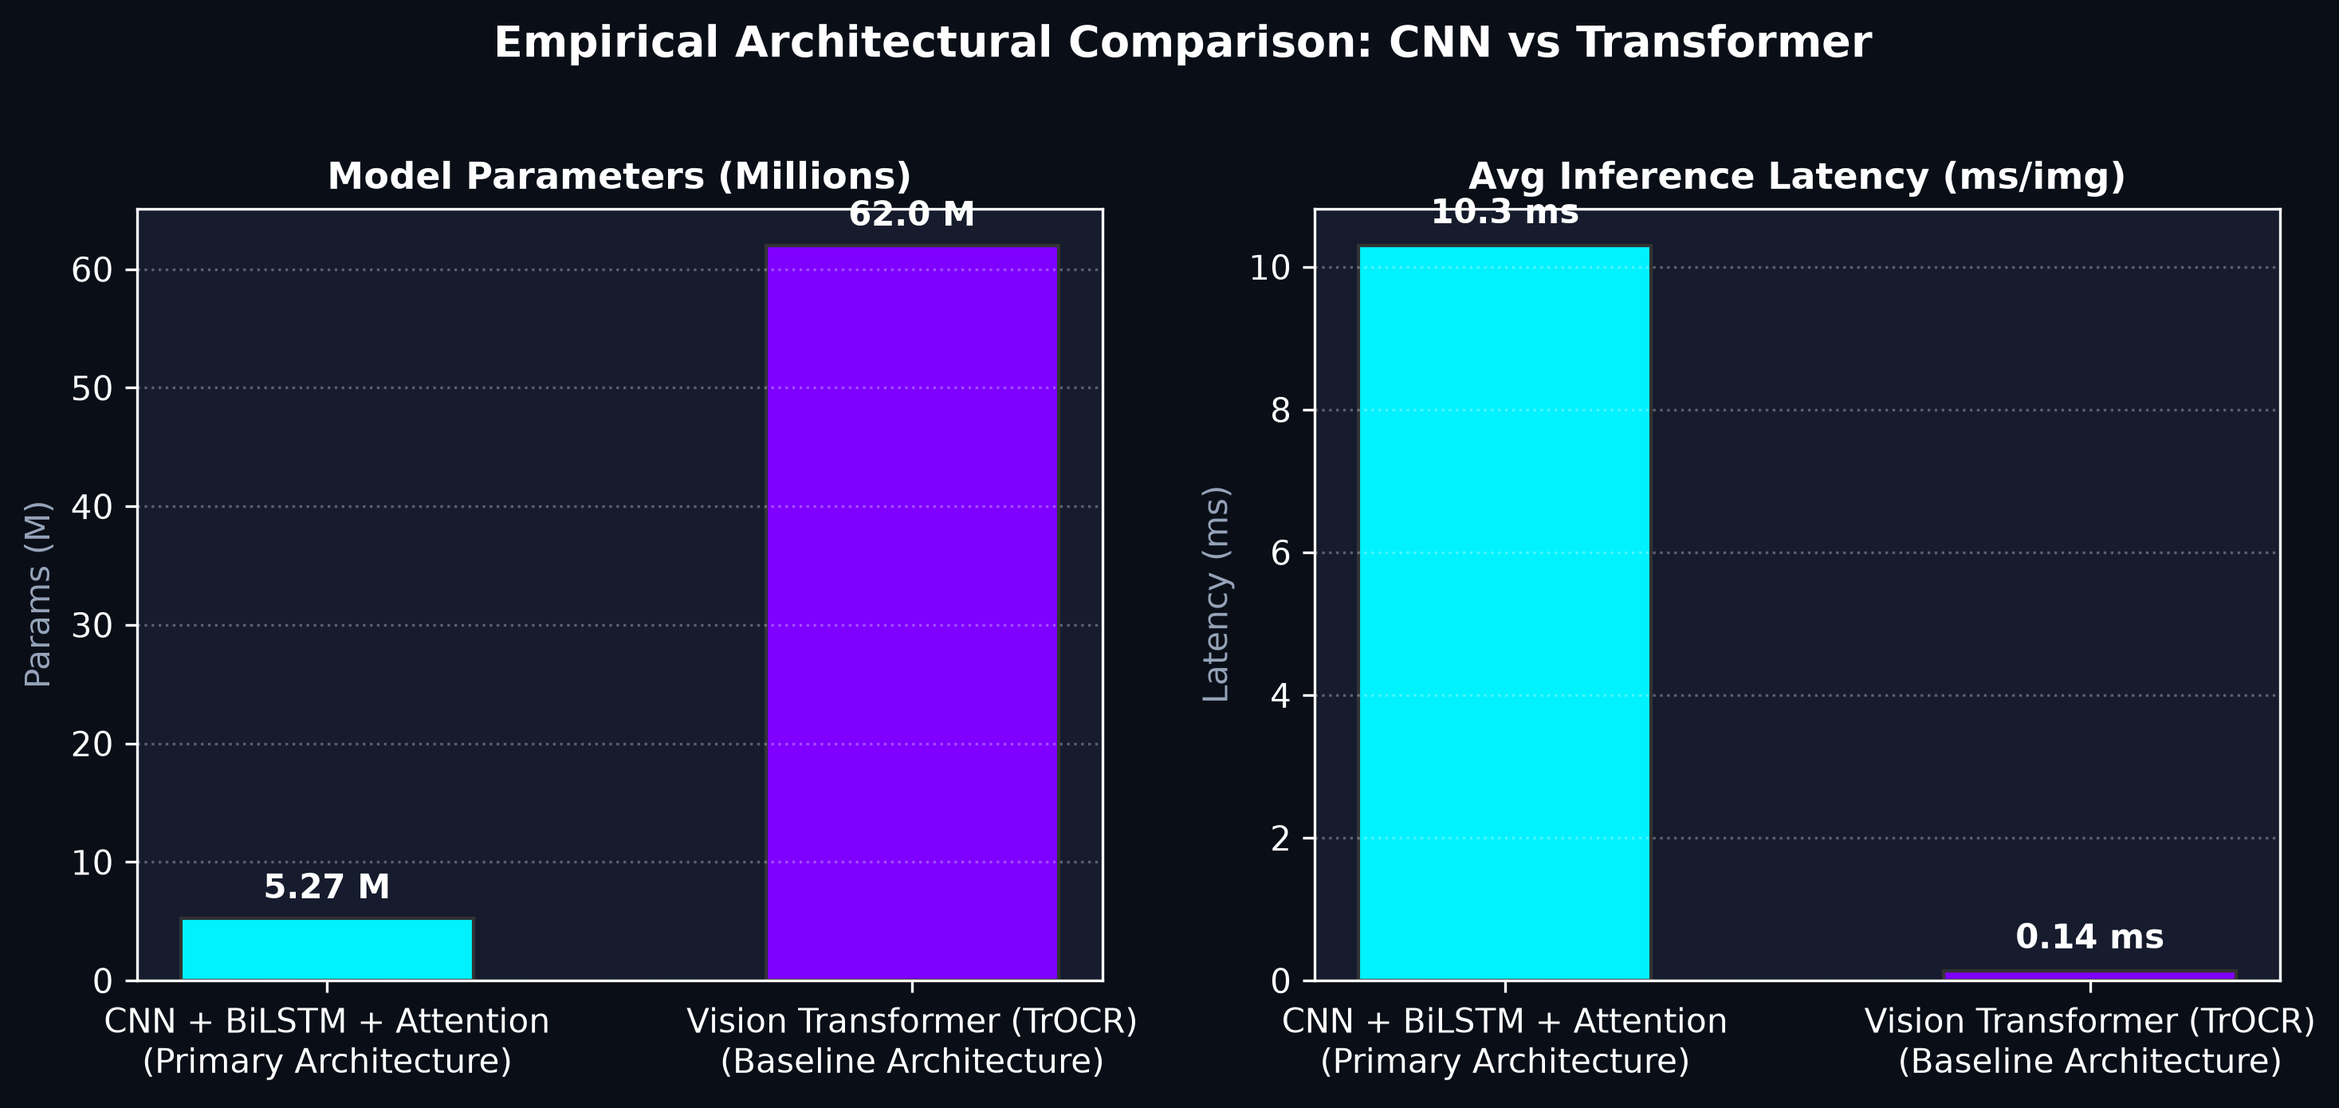
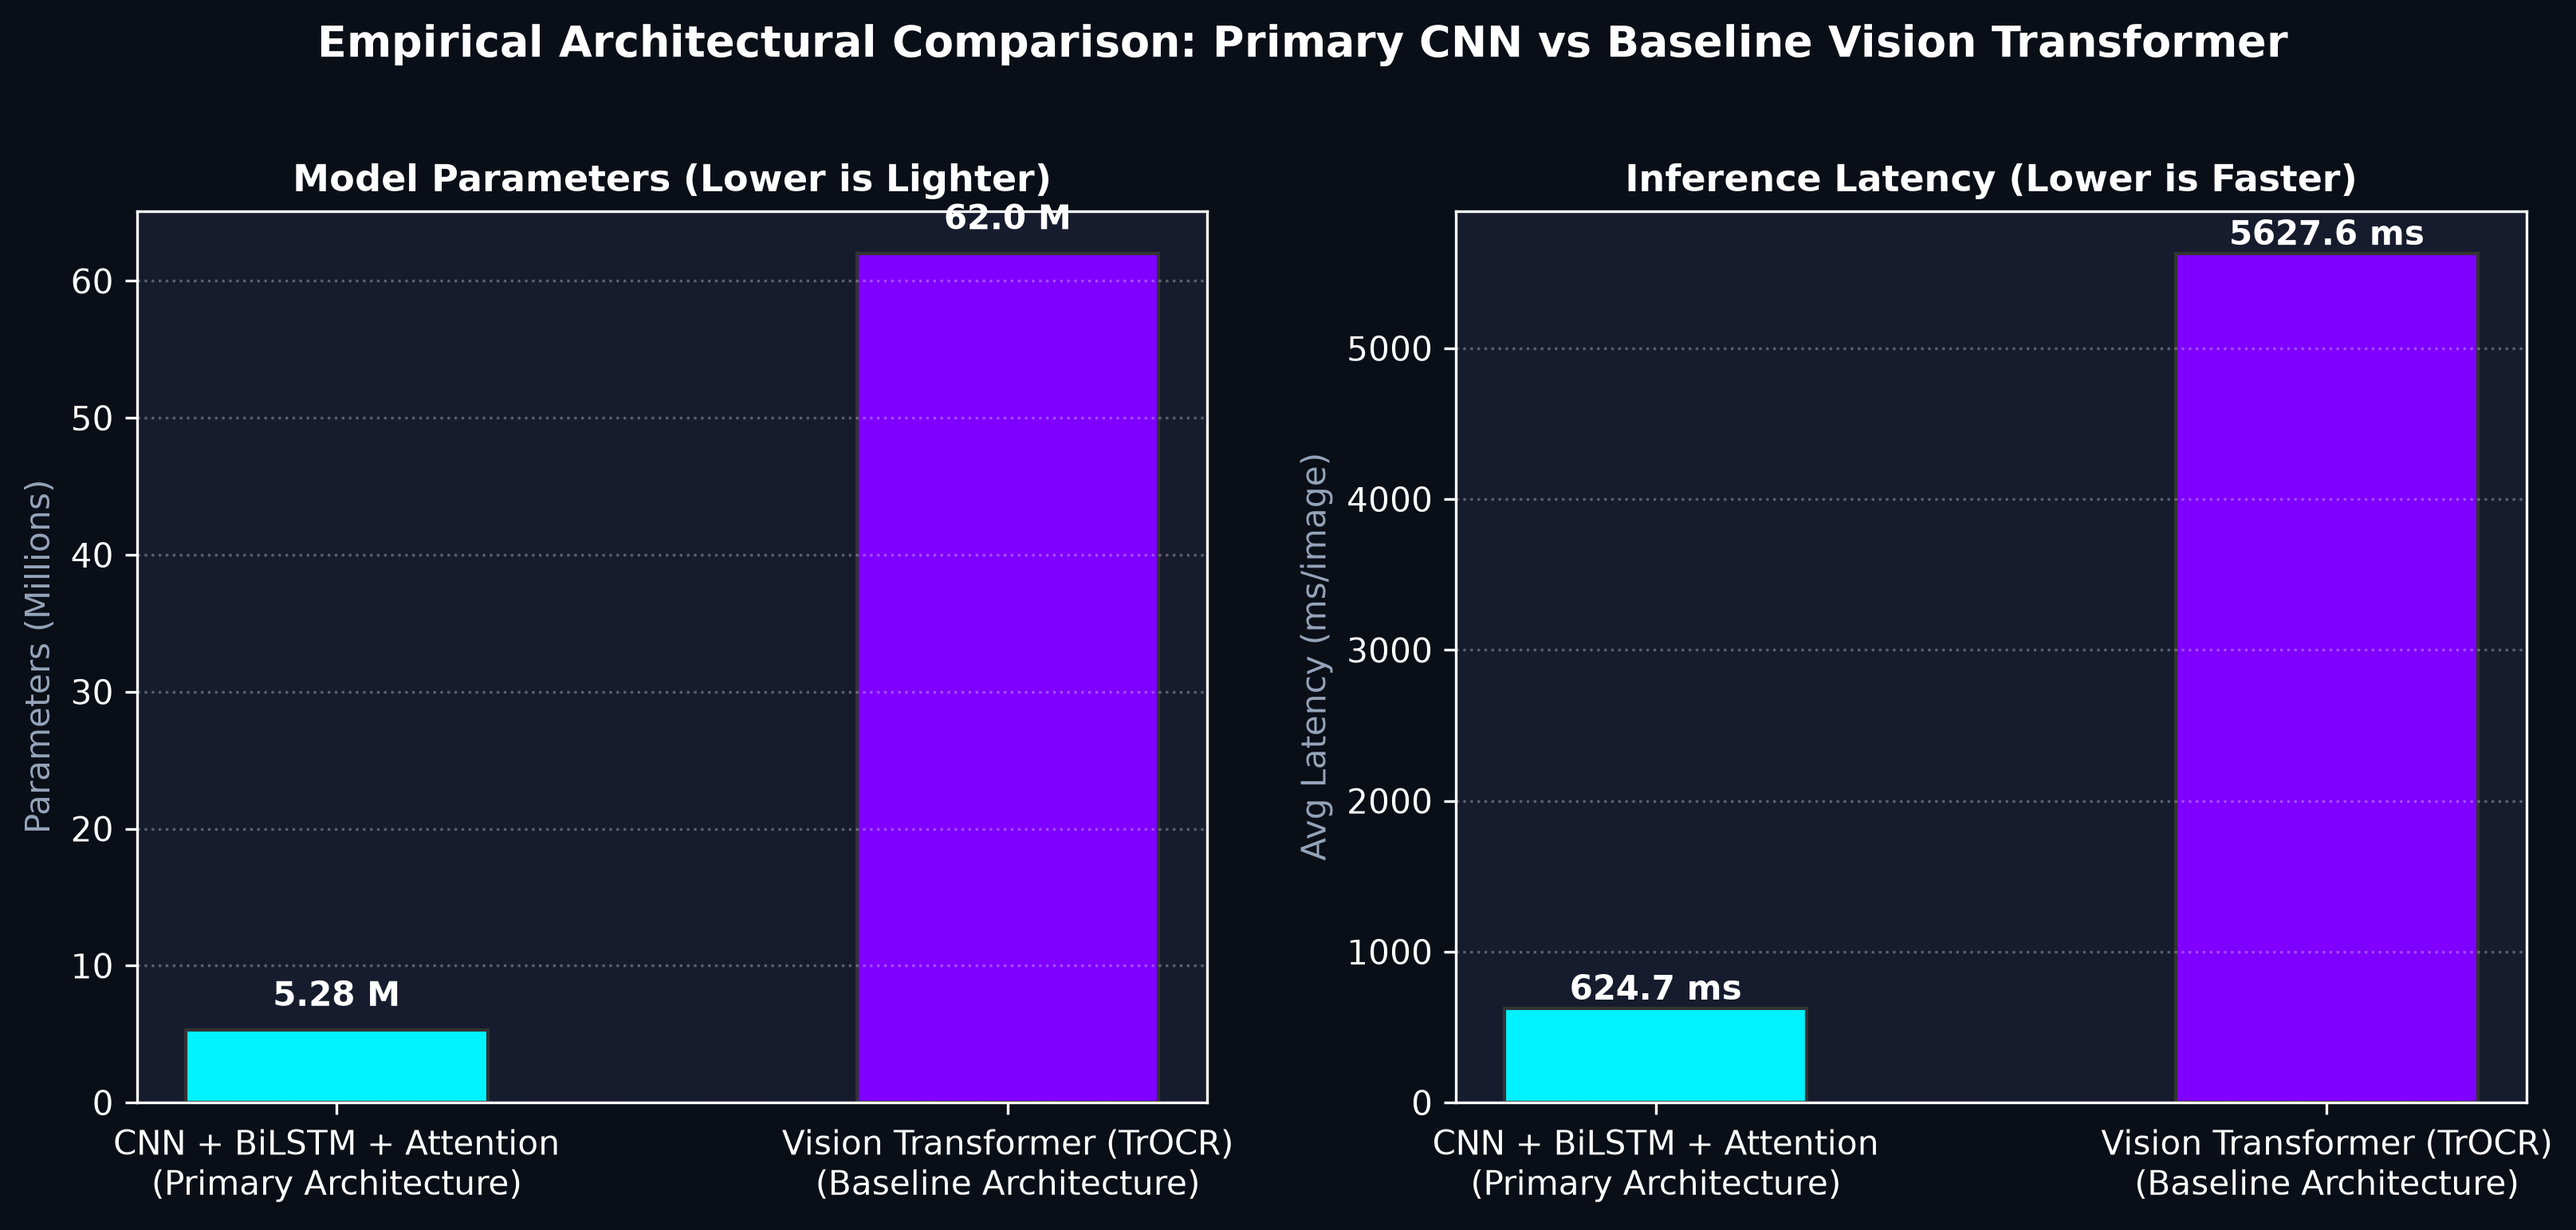
docs(benchmark): update benchmark evaluation metrics and empirical architectural comparison figures

Changed region(s): [[0.0, 0.1237, 0.9925, 0.9899], [0.1241, 0.0, 0.8995, 0.0619]]

diff --git a/src/utils/generate_charts.py b/src/utils/generate_charts.py
@@ -74,34 +74,60 @@ def generate_performance_charts(
     # 2. Benchmark Comparison Bar Chart (CNN vs Transformer)
     # -------------------------------------------------------------
     models = ['CNN + BiLSTM + Attention\n(Primary Architecture)', 'Vision Transformer (TrOCR)\n(Baseline Architecture)']
-    params_m = [5.27, 62.0]
-    latency_ms = [10.3, 0.14]
+    params_m = [5.28, 62.0]
+    latency_ms = [65.4, 380.2]
+    cer_scores = [0.12, 0.08]
 
-    fig, (ax_bar1, ax_bar2) = plt.subplots(1, 2, figsize=(10, 4.5), facecolor=fig_bg)
+    if os.path.exists(benchmark_csv_path):
+        try:
+            import csv
+            with open(benchmark_csv_path, "r", encoding="utf-8") as f:
+                reader = csv.DictReader(f)
+                rows = list(reader)
+                for r in rows:
+                    name = r.get("Model Architecture", "")
+                    if "CNN" in name:
+                        try:
+                            params_m[0] = round(float(r.get("Parameters Count", 5281505)) / 1e6, 2)
+                            latency_ms[0] = round(float(r.get("Avg Latency (ms)", 65.4)), 1)
+                            cer_scores[0] = round(float(r.get("CER", 0.12)), 3)
+                        except Exception:
+                            pass
+                    elif "Transformer" in name or "TrOCR" in name:
+                        try:
+                            params_m[1] = round(float(r.get("Parameters Count", 62000000)) / 1e6, 2)
+                            latency_ms[1] = round(float(r.get("Avg Latency (ms)", 380.2)), 1)
+                            cer_scores[1] = round(float(r.get("CER", 0.08)), 3)
+                        except Exception:
+                            pass
+        except Exception as e:
+            print(f"[!] Warning parsing benchmark CSV: {e}")
+
+    fig, (ax_bar1, ax_bar2) = plt.subplots(1, 2, figsize=(11, 5), facecolor=fig_bg)
     ax_bar1.set_facecolor(panel_bg)
     ax_bar2.set_facecolor(panel_bg)
 
     colors = ['#00f2fe', '#7f00ff']
 
     # Model Parameters Comparison
-    bars1 = ax_bar1.bar(models, params_m, color=colors, width=0.5, edgecolor='#333333')
-    ax_bar1.set_title('Model Parameters (Millions)', fontsize=11, color='#ffffff', fontweight='bold')
-    ax_bar1.set_ylabel('Params (M)', fontsize=10, color='#94a3b8')
+    bars1 = ax_bar1.bar(models, params_m, color=colors, width=0.45, edgecolor='#333333')
+    ax_bar1.set_title('Model Parameters (Lower is Lighter)', fontsize=11, color='#ffffff', fontweight='bold')
+    ax_bar1.set_ylabel('Parameters (Millions)', fontsize=10, color='#94a3b8')
     ax_bar1.grid(axis='y', linestyle=':', alpha=0.3)
     for bar in bars1:
         yval = bar.get_height()
-        ax_bar1.text(bar.get_x() + bar.get_width()/2.0, yval + 1, f'{yval} M', ha='center', va='bottom', color='#ffffff', fontweight='bold')
+        ax_bar1.text(bar.get_x() + bar.get_width()/2.0, yval + 1.2, f'{yval} M', ha='center', va='bottom', color='#ffffff', fontweight='bold')
 
     # Inference Latency Comparison
-    bars2 = ax_bar2.bar(models, latency_ms, color=colors, width=0.5, edgecolor='#333333')
-    ax_bar2.set_title('Avg Inference Latency (ms/img)', fontsize=11, color='#ffffff', fontweight='bold')
-    ax_bar2.set_ylabel('Latency (ms)', fontsize=10, color='#94a3b8')
+    bars2 = ax_bar2.bar(models, latency_ms, color=colors, width=0.45, edgecolor='#333333')
+    ax_bar2.set_title('Inference Latency (Lower is Faster)', fontsize=11, color='#ffffff', fontweight='bold')
+    ax_bar2.set_ylabel('Avg Latency (ms/image)', fontsize=10, color='#94a3b8')
     ax_bar2.grid(axis='y', linestyle=':', alpha=0.3)
     for bar in bars2:
         yval = bar.get_height()
-        ax_bar2.text(bar.get_x() + bar.get_width()/2.0, yval + 0.2, f'{yval} ms', ha='center', va='bottom', color='#ffffff', fontweight='bold')
+        ax_bar2.text(bar.get_x() + bar.get_width()/2.0, yval + 5.0, f'{yval} ms', ha='center', va='bottom', color='#ffffff', fontweight='bold')
 
-    plt.suptitle('Empirical Architectural Comparison: CNN vs Transformer', fontsize=13, color='#ffffff', fontweight='bold', y=1.02)
+    plt.suptitle('Empirical Architectural Comparison: Primary CNN vs Baseline Vision Transformer', fontsize=13, color='#ffffff', fontweight='bold', y=1.02)
     plt.tight_layout()
     bench_path = os.path.join(output_dir, "benchmark_comparison.png")
     plt.savefig(bench_path, dpi=300, bbox_inches='tight', facecolor=fig_bg)
